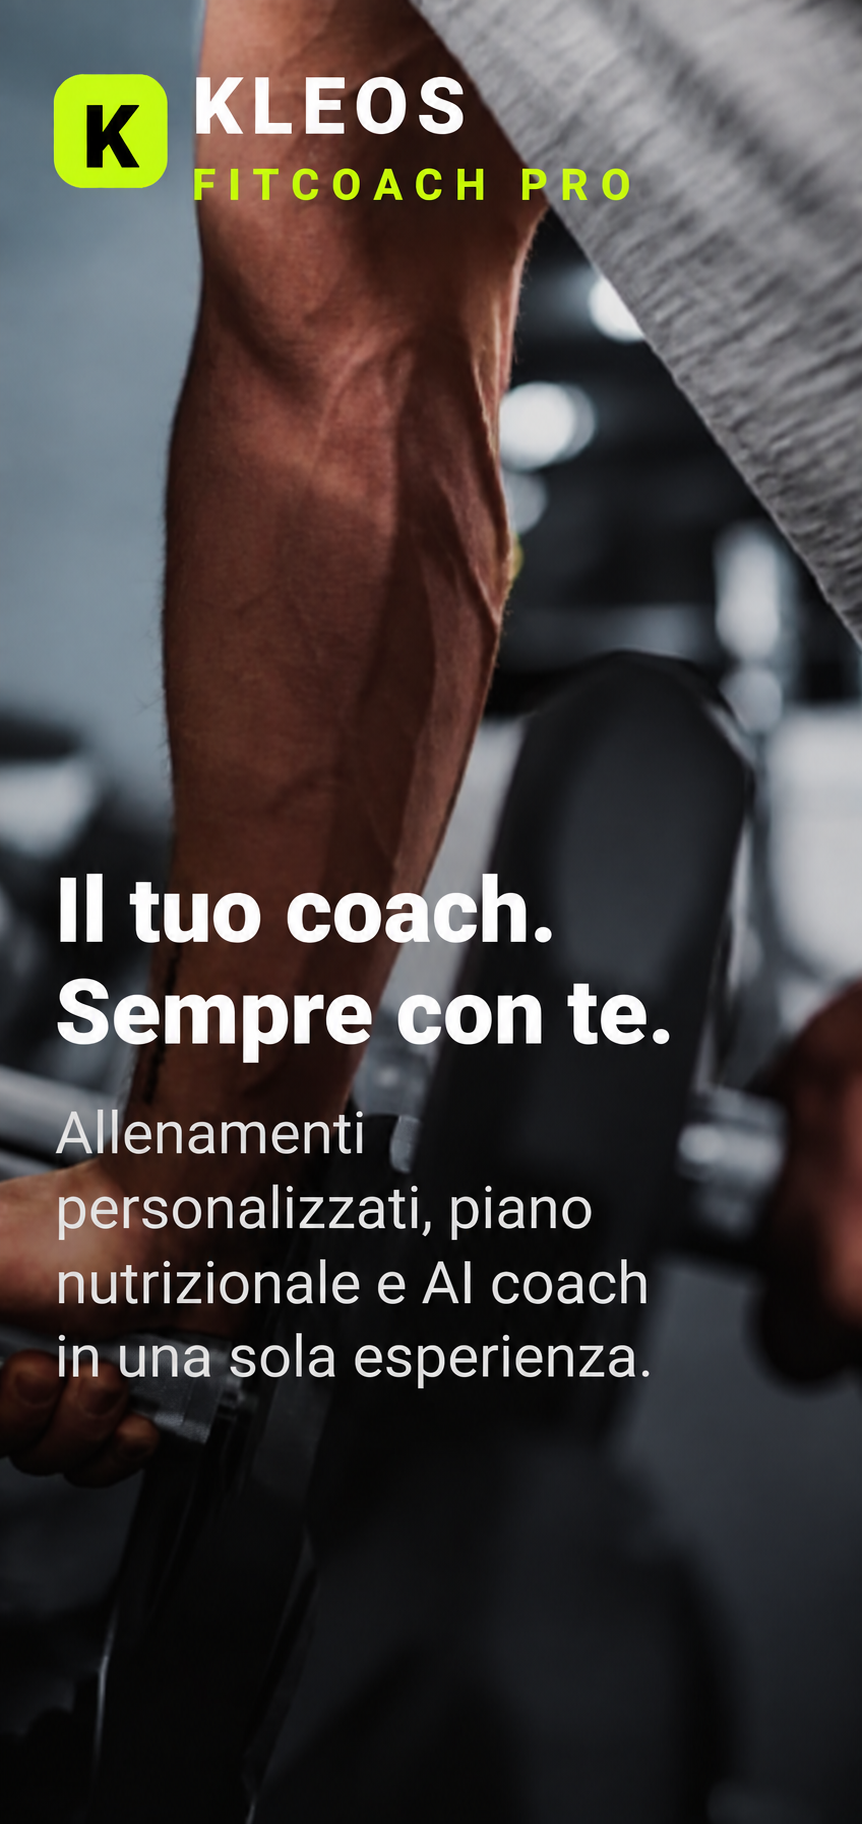
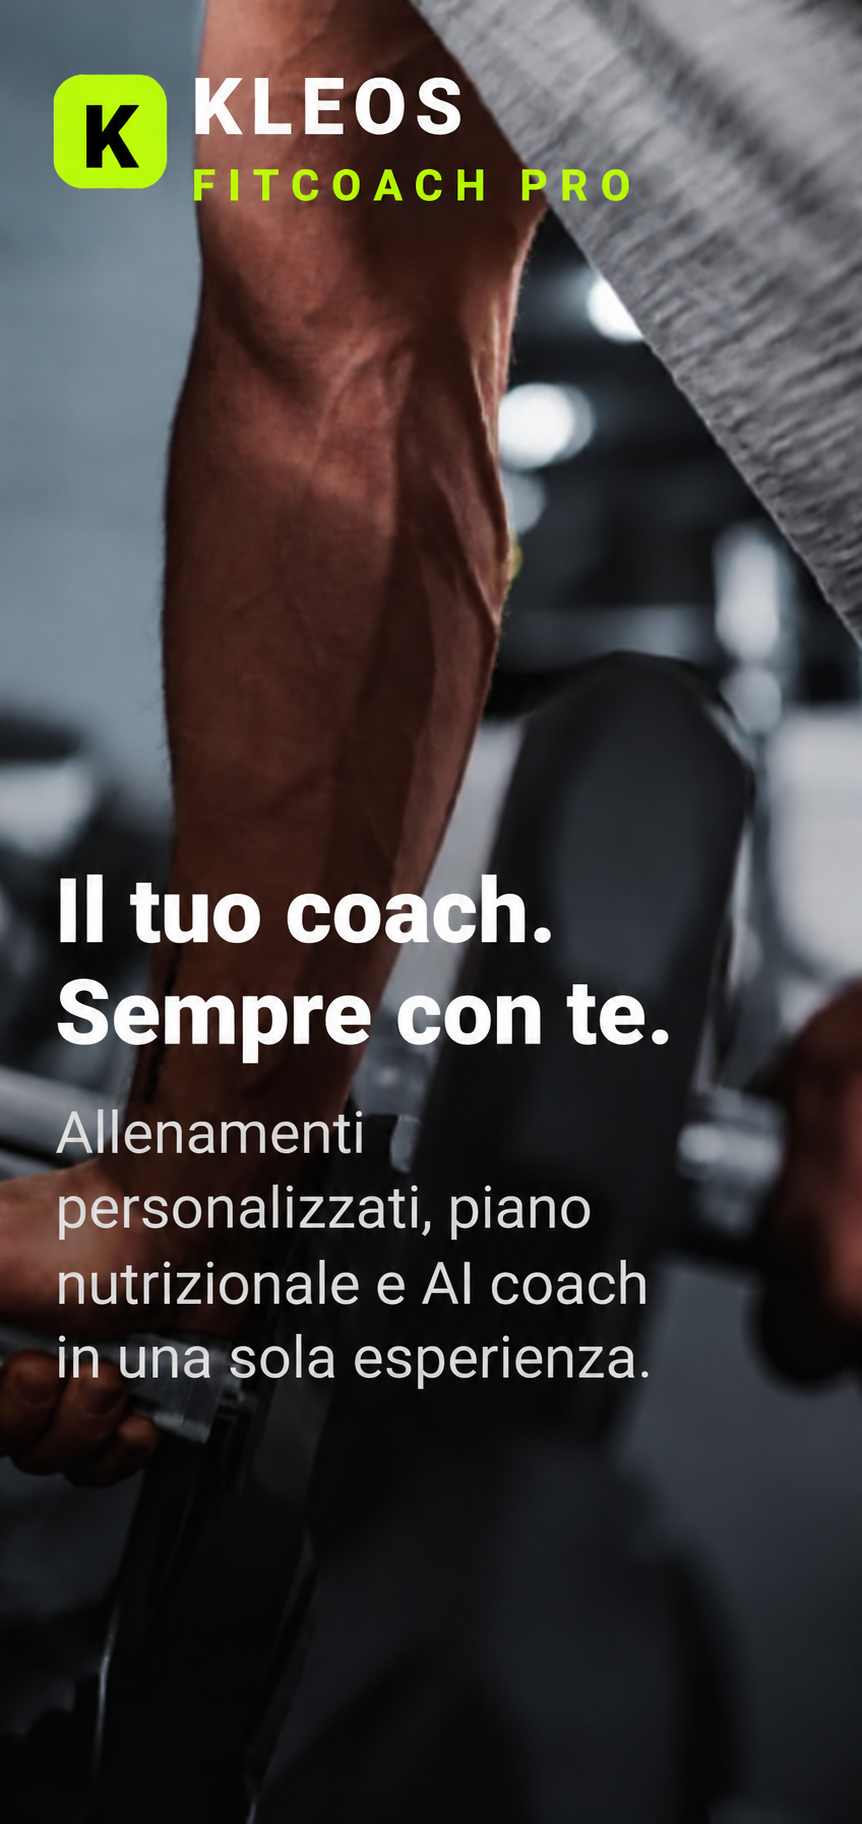
Add files via upload

diff --git a/index.html b/index.html
@@ -24,7 +24,7 @@
 .welcomeTitle{font-size:38px;line-height:1.04;font-weight:900;margin:0 0 14px}.welcomeText{color:#c7ccd4;font-size:16px;line-height:1.55;margin:0 0 28px;max-width:390px}
 .welcomeActions{display:grid;gap:11px}.welcomeBtn{width:100%;padding:16px 20px;border-radius:12px;font-size:18px;font-weight:900;cursor:pointer;border:1px solid transparent}.welcomeBtn.primary{background:var(--accent);color:#10130a}.welcomeBtn.dark{background:rgba(10,12,16,.72);color:#fff;border-color:rgba(255,255,255,.2)}
 .welcomeQuote{margin-top:25px;color:#aeb5c0;font-size:13px;font-style:italic}
-.loginScreen{min-height:100vh;display:none;align-items:center;justify-content:center;padding:20px;background:#080a0d url('kleosfit-login-bg.jpeg') center center/cover no-repeat;position:relative;}
+.loginScreen{min-height:100vh;display:none;align-items:center;justify-content:center;padding:20px;background:#080a0d url('kleosfit-home.png') center center/cover no-repeat;position:relative;}
 .loginScreen:before{content:"";position:absolute;inset:0;background:rgba(0,0,0,.64);}
 .loginScreen .loginbox{position:relative;z-index:1;background:rgba(15,17,21,.88);backdrop-filter:blur(10px);box-shadow:0 25px 80px rgba(0,0,0,.5)}
 .loginBack{margin-bottom:12px}
